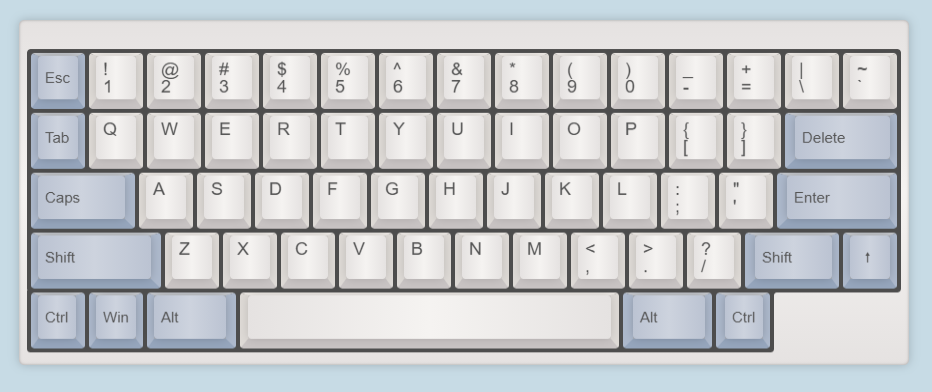
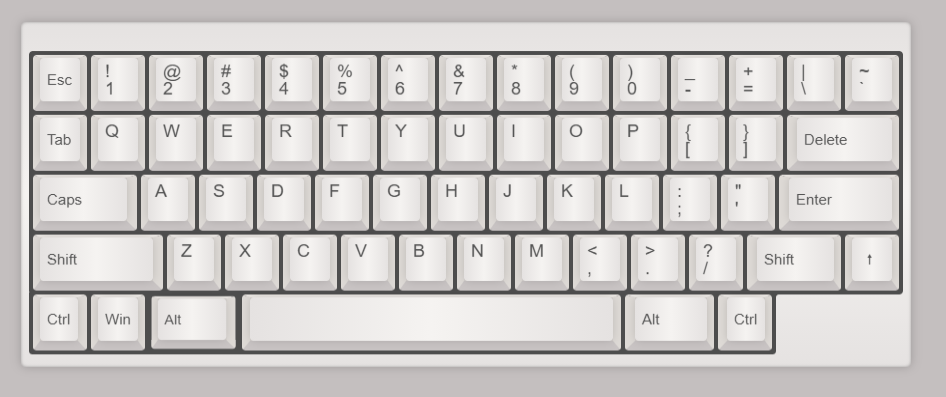
Select to change style

diff --git a/styles/base.css b/styles/base.css
@@ -1,0 +1,257 @@
+@import url(https://fonts.googleapis.com/css?family=Average+Sans);
+#update {
+    margin-top: 60px;
+    text-align: center;
+}
+
+/* -------------------------------------
+* style
+* ------------------------------------- */
+
+body {
+    width: 890px;
+    margin: 0 auto;
+    padding: 100px 30px 30px;
+    font-family: "Average Sans", sans-serif;
+    color: #555;
+    text-shadow: 0 0 1px rgba(0, 0, 0, 0.1);
+    background: #c4bfbf;
+}
+
+/*------- Keyboard ------- */
+#keyboard {
+    padding: 30px 8px 13px;
+    background: #f5f3f1;
+    background: -webkit-linear-gradient(top, #e5e2e1, #f5f3f1, #e5e2e1);
+    background: -moz-linear-gradient(top, #e5e2e1, #f5f3f1, #e5e2e1);
+    background: -ms-linear-gradient(top, #e5e2e1, #f5f3f1, #e5e2e1);
+    background: -o-linear-gradient(top, #e5e2e1, #f5f3f1, #e5e2e1);
+    background: linear-gradient(to bottom, #e5e2e1, #f5f3f1, #e5e2e1);
+    border-radius: 5px;
+    box-shadow: 0 0 10px rgba(0, 0, 0, 0.2), inset 0 0 3px rgba(0, 0, 0, 0.3);
+    -webkit-transform: rotateX(15deg);
+    -ms-transform: rotateX(15deg);
+    -o-transform: rotateX(15deg);
+}
+
+#main {
+    padding: 2px;
+    background: #4d4d4d;
+    border-radius: 4px;
+    overflow: hidden;
+}
+
+#addition_wrap {
+    width: 743px;
+    margin: -2px 0 0 0px;
+    padding: 0 2px 2px;
+    background: #4d4d4d;
+    border-radius: 0 0 4px 4px;
+    position: relative;
+}
+/* #addition_wrap:before, */
+#addition_wrap:after {
+    content: "";
+    width: 5px;
+    height: 5px;
+    background: #ebe8e7;
+    border-top: 2px solid #4d4d4d;
+    position: absolute;
+    top: 0px;
+}
+#addition_wrap:before {
+    left: -5px;
+    border-right: 2px solid #4d4d4d;
+    border-radius: 0 5px 0 0;
+}
+#addition_wrap:after {
+    right: -5px;
+    border-left: 2px solid #4d4d4d;
+    border-radius: 5px 0 0 0;
+}
+
+#addition {
+    overflow: hidden;
+}
+
+.key, .f_key {
+    width: 40px;
+    height: 45px;
+    margin: 2px;
+    border-width: 3px 7px 10px;
+    border-style: solid;
+    border-radius: 4px;
+    float: left;
+}
+.key.pressed, .f_key.pressed {
+    -webkit-transform: scale(0.95, 0.95);
+    -moz-transform: scale(0.95, 0.95);
+    -ms-transform: scale(0.95, 0.95);
+    -o-transform: scale(0.95, 0.95);
+    transform: scale(0.95, 0.95);
+}
+
+.key {
+    background: #d3cfcc;
+    border-color: #ece8e4 #dedad6 #c9c4c4;
+}
+
+.f_key {
+    background: #d3cfcc;
+    border-color: #ece8e4 #dedad6 #c9c4c4;
+}
+
+.key .keycap {
+    width: 33px;
+    height: 40px;
+    padding: 5px 0 0 7px;
+    font-size: 18px;
+    line-height: 1;
+    background: #f5f3f1;
+    background: -webkit-linear-gradient(left, #e5e2e1, #f5f3f1, #e5e2e1);
+    background: -moz-linear-gradient(left, #e5e2e1, #f5f3f1, #e5e2e1);
+    background: -ms-linear-gradient(left, #e5e2e1, #f5f3f1, #e5e2e1);
+    background: -o-linear-gradient(left, #e5e2e1, #f5f3f1, #e5e2e1);
+    background: linear-gradient(to right, #e5e2e1, #f5f3f1, #e5e2e1);
+    box-shadow: 0 0 10px rgba(0, 0, 0, 0.15);
+    border-radius: 4px;
+    position: relative;
+}
+
+.f_key .keycap {
+    width: inherit;
+    height: inherit;
+    font-size: 15px;
+    line-height: 45px;
+    text-indent: 7px;
+    background: #f5f3f1;
+    background: -webkit-linear-gradient(left, #e5e2e1, #f5f3f1, #e5e2e1);
+    background: -moz-linear-gradient(left, #e5e2e1, #f5f3f1, #e5e2e1);
+    background: -ms-linear-gradient(left, #e5e2e1, #f5f3f1, #e5e2e1);
+    background: -o-linear-gradient(left, #e5e2e1, #f5f3f1, #e5e2e1);
+    background: linear-gradient(to right, #e5e2e1, #f5f3f1, #e5e2e1);
+    box-shadow: 0 0 10px rgba(0, 0, 0, 0.15);
+    border-radius: 4px;
+    position: relative;
+}
+
+.top {
+    padding: 3px 5px 0 0;
+    font-size: 12px;
+    font-style: italic;
+    text-align: right;
+    line-height: 1;
+    display: block;
+}
+
+.bottom {
+    width: inherit;
+    line-height: 20px;
+    display: block;
+}
+
+.side {
+    font-size: 10px;
+    line-height: 1;
+    display: block;
+    position: absolute;
+    left: 4px;
+    bottom: -10px;
+    -webkit-transform: rotateX(50deg);
+    -moz-transform: rotateX(50deg);
+    -ms-transform: rotateX(50deg);
+    -o-transform: rotateX(50deg);
+    transform: rotateX(50deg);
+}
+
+.f_key .side {
+    left: -3px;
+}
+
+.k13 .side {
+    right: 7px;
+    text-align: right;
+}
+
+/*------- key width ------- */
+.k27, .kControlLeft.left {
+    width: 38px;
+    border-right-width: 9px;
+}
+
+.k192, .fn, .kControlRight.right {
+    width: 38px;
+    border-left-width: 9px;
+}
+
+.k192 .keycap {
+    width: 30px;
+}
+
+.k9 {
+    width: 66px;
+    border-right-width: 10px;
+}
+
+.kBackspace {
+    width: 95px;
+    border-left-width: 10px;
+}
+
+.kCapsLock {
+    width: 87px;
+    border-right-width: 10px;
+}
+
+.kEnter {
+    width: 103px;
+    border-left-width: 10px;
+}
+
+.kShiftLeft.left {
+    width: 113px;
+    border-right-width: 10px;
+}
+
+.kShiftRight.right {
+    width: 77px;
+    border-left-width: 10px;
+}
+
+.kAltLeft, .k93 {
+    width: 72px;
+}
+.kAltLeft .top, .k93 .top {
+    font-size: 13px;
+}
+.kAltLeft .bottom, .k93 .bottom {
+    font-size: 20px;
+}
+
+.kAltLeft.left {
+    border-right-width: 10px;
+}
+
+.k93.right {
+    border-left-width: 10px;
+}
+
+.kSpace {
+    width: 363px;
+    border-width: 3px 8px 10px;
+}
+.kSpace .keycap {
+    width: 356px;
+}
+.kSpace.pressed {
+    -webkit-transform: scale(0.98, 0.95);
+    -moz-transform: scale(0.98, 0.95);
+    -ms-transform: scale(0.98, 0.95);
+    -o-transform: scale(0.98, 0.95);
+    transform: scale(0.98, 0.95);
+}
+
+
+.f_key .keycap.arrow {
+    text-indent: 14px;
+}

diff --git a/app.js b/app.js
@@ -1,12 +1,26 @@
 const click = new Audio('./sounds/click.mp3');
 
 window.addEventListener('keydown', (e) => {
-    let keyPressed = document.getElementsByClassName(`k${e.code}`);
+    const keyPressed = document.getElementsByClassName(`k${e.code}`);
     click.play();
     keyPressed[0].classList.add('pressed');
     e.code == 'Tab' && e.preventDefault();
 })
 window.addEventListener('keyup', (e) => {
-    let keyPressed = document.getElementsByClassName(`k${e.code}`);
+    const keyPressed = document.getElementsByClassName(`k${e.code}`);
     keyPressed[0].classList.remove('pressed');
 })
+
+
+document.getElementById('select-style').addEventListener('change', (e) => {
+    const newStyle = e.target.value;
+    const rel = document.querySelector('link[theme="style"]')
+    switch(newStyle){
+        case 'Base':
+            rel.href = './styles/base.css';
+            break;
+        case 'Original':
+            rel.href = './styles/og.css';
+            break;
+    }
+});

diff --git a/index.html b/index.html
@@ -5,9 +5,13 @@
     <meta name="viewport" content="width=device-width, initial-scale=1.0">
     <title>Keyboard</title>
     <link rel="icon" type="image/png" href="/img/icon2.png"/>
-    <link rel="stylesheet" href="./style.css">
+    <link rel="stylesheet" theme="style" href="./styles/base.css">
 </head>
 <body>
+  <select id="select-style">
+    <option selected=true>Base</option>
+    <option>Original</option>
+  </select>
     <div id="keyboard">
         <div id="main">
           <div class="kEscape f_key">
